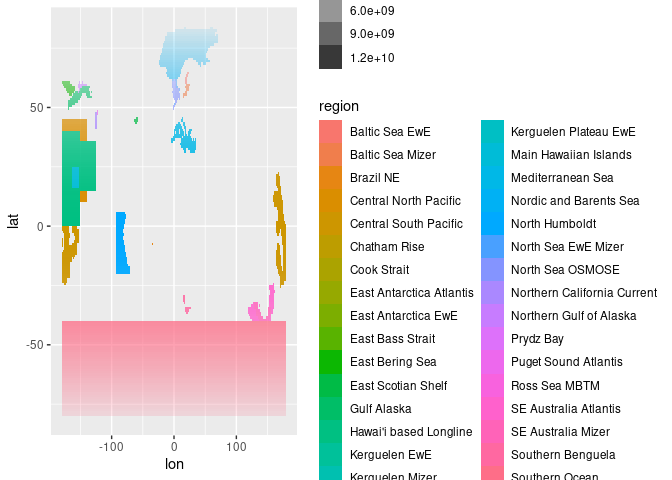
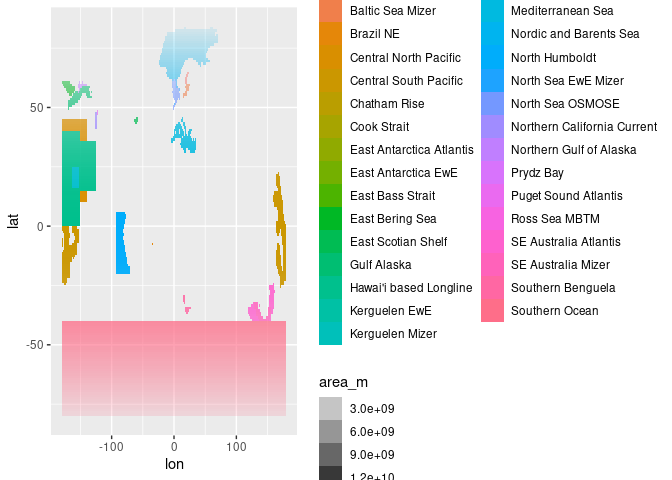
redoing masks without duplicate region and removing deprecated dbpm mask

Changed region(s): [[0.4688, 0.0, 0.9688, 1.0]]

diff --git a/Scripts/03b_Regional_Models_3DMasks.md b/Scripts/03b_Regional_Models_3DMasks.md
@@ -81,10 +81,8 @@ sample_rasters <- list.files("../ESM_Sample_Data/", pattern = ".nc$", full.names
 sample_rasters
 ```
 
-    ## [1] "../ESM_Sample_Data//area_025deg.nc"   
-    ## [2] "../ESM_Sample_Data//area_05deg.nc"    
-    ## [3] "../ESM_Sample_Data//area_1deg_DBPM.nc"
-    ## [4] "../ESM_Sample_Data//area_1deg.nc"
+    ## [1] "../ESM_Sample_Data//area_025deg.nc" "../ESM_Sample_Data//area_05deg.nc" 
+    ## [3] "../ESM_Sample_Data//area_1deg.nc"
 
 We will define a function that will go through each sample file and
 create a mask.
@@ -265,7 +263,7 @@ reg_keys |>
 reg_keys
 ```
 
-    ## # A tibble: 33 × 2
+    ## # A tibble: 32 × 2
     ##       id region                  
     ##    <int> <chr>                   
     ##  1     1 Baltic Sea EwE          
@@ -278,7 +276,7 @@ reg_keys
     ##  8     8 East Antarctica Atlantis
     ##  9     9 East Antarctica EwE     
     ## 10    10 East Bass Strait        
-    ## # ℹ 23 more rows
+    ## # ℹ 22 more rows
 
 ## How to use raster mask
 
@@ -378,7 +376,7 @@ mask_df <- read_csv("../Outputs/FishMIPMasks/FishMIP_regional_mask_1deg.csv") |>
   filter(region == "East Antarctica EwE")
 ```
 
-    ## Rows: 23816 Columns: 4
+    ## Rows: 23596 Columns: 4
     ## ── Column specification ────────────────────────────────────────────────────────
     ## Delimiter: ","
     ## chr (1): region
@@ -408,7 +406,7 @@ extract_df_all <- read_csv("../Outputs/FishMIPMasks/FishMIP_regional_mask_1deg.c
   left_join(sample_df, by = c("lon", "lat"))
 ```
 
-    ## Rows: 23816 Columns: 4
+    ## Rows: 23596 Columns: 4
     ## ── Column specification ────────────────────────────────────────────────────────
     ## Delimiter: ","
     ## chr (1): region
